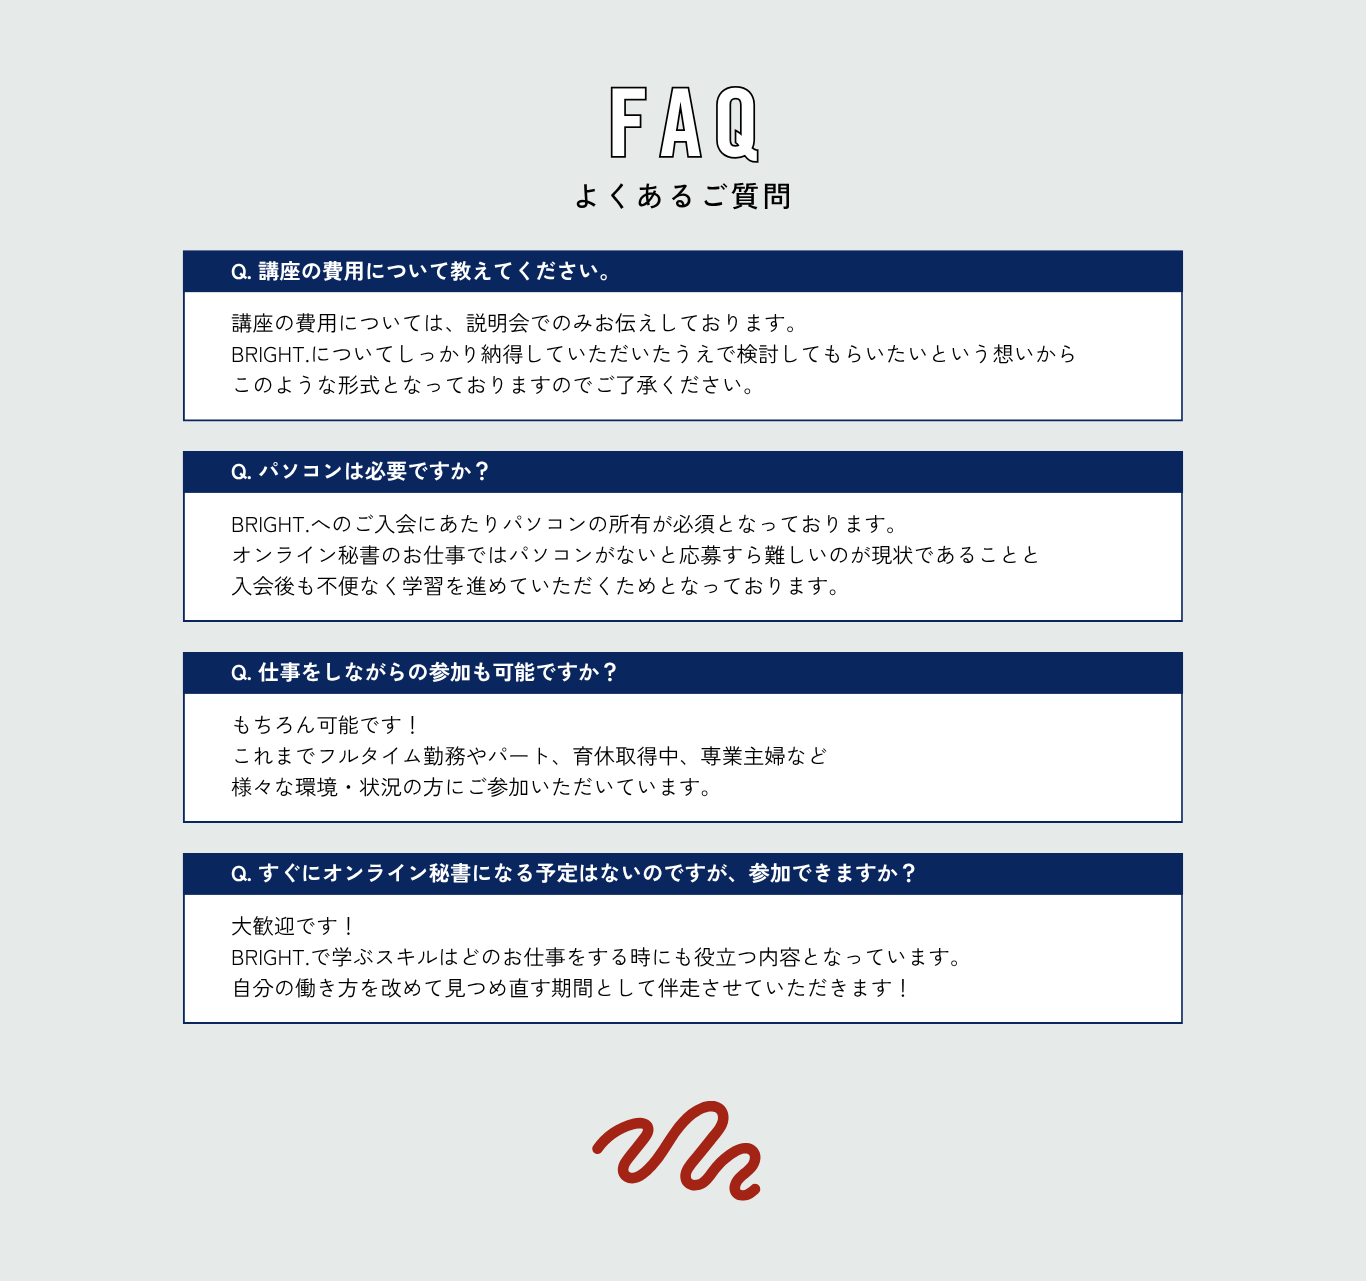
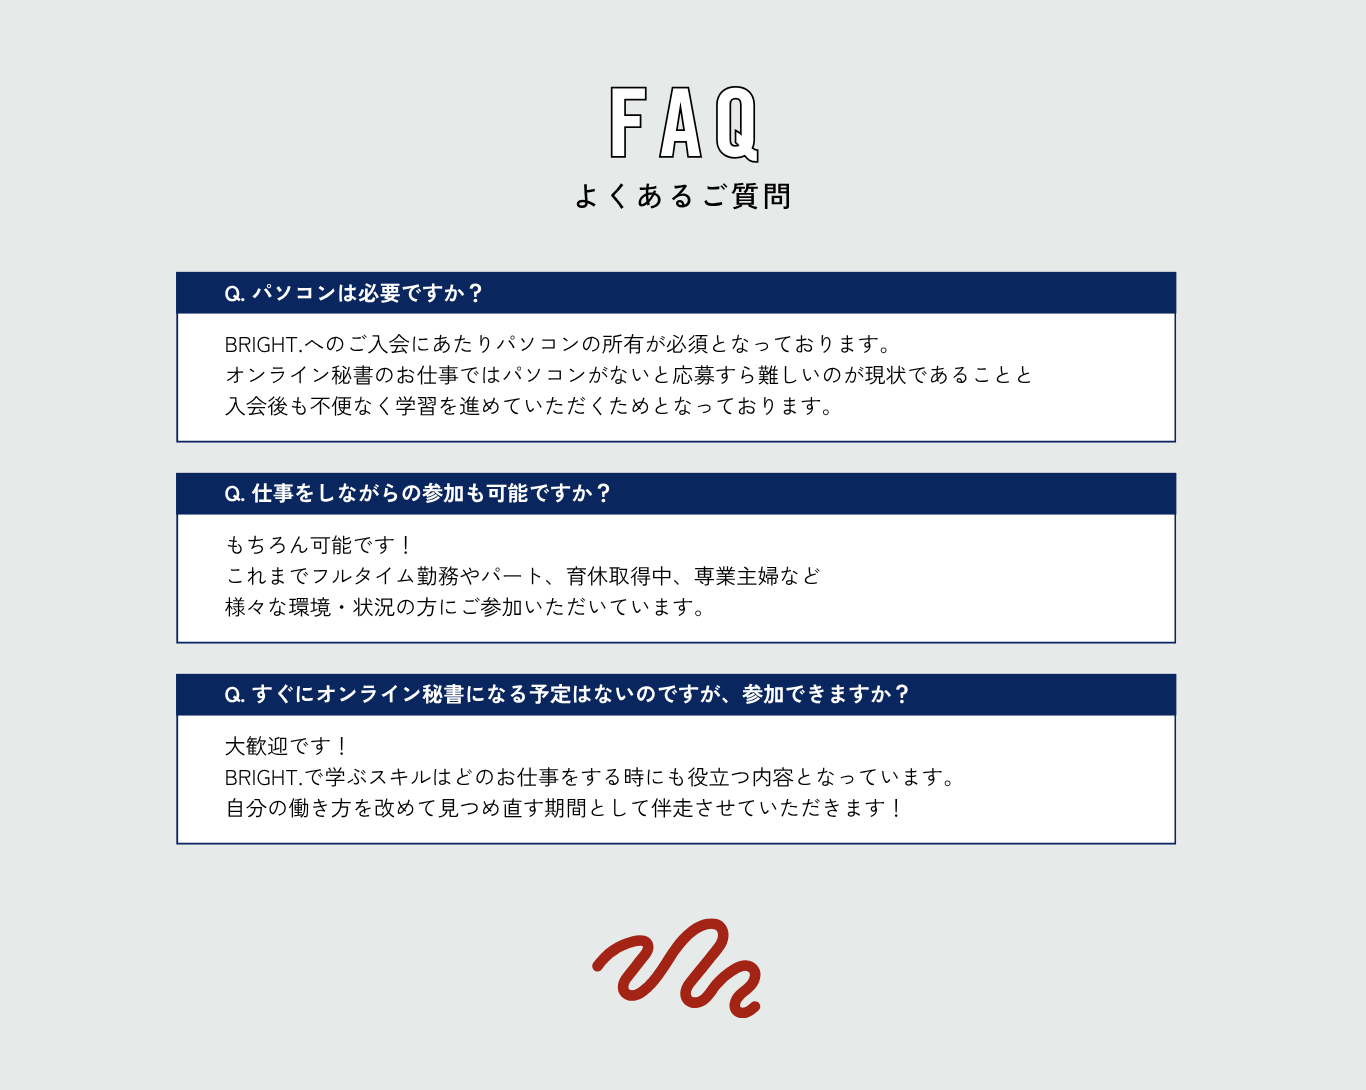
Fix cancellation policy, update URL, swap FAQ image

diff --git a/index.html b/index.html
@@ -278,7 +278,7 @@
     </tr>
     <tr>
       <th>講座紹介URL</th>
-      <td>https://salmon156570.studio.site/</td>
+      <td>https://ekaori0117-wq.github.io/bright-lp/</td>
     </tr>
     <tr>
       <th>販売商材名</th>
@@ -320,9 +320,9 @@
     <tr>
       <th>キャンセル・返金について</th>
       <td>
-        お申込み後一定期間内はご返金（半額）に対応いたします。<br>
-        一定期間経過後のご返金はいたしかねますので、あらかじめご了承ください。<br>
-        詳細はお申込み時にご確認ください。
+        第1回目の講義が行われる前月までに退会が成立した場合、受講料の半額を返金いたします。<br>
+        第1回目の講義が行われる当月以降の返金はいたしかねます。<br>
+        なお、返金手続きにかかる振込手数料はお客様のご負担となります。
       </td>
     </tr>
     <tr>